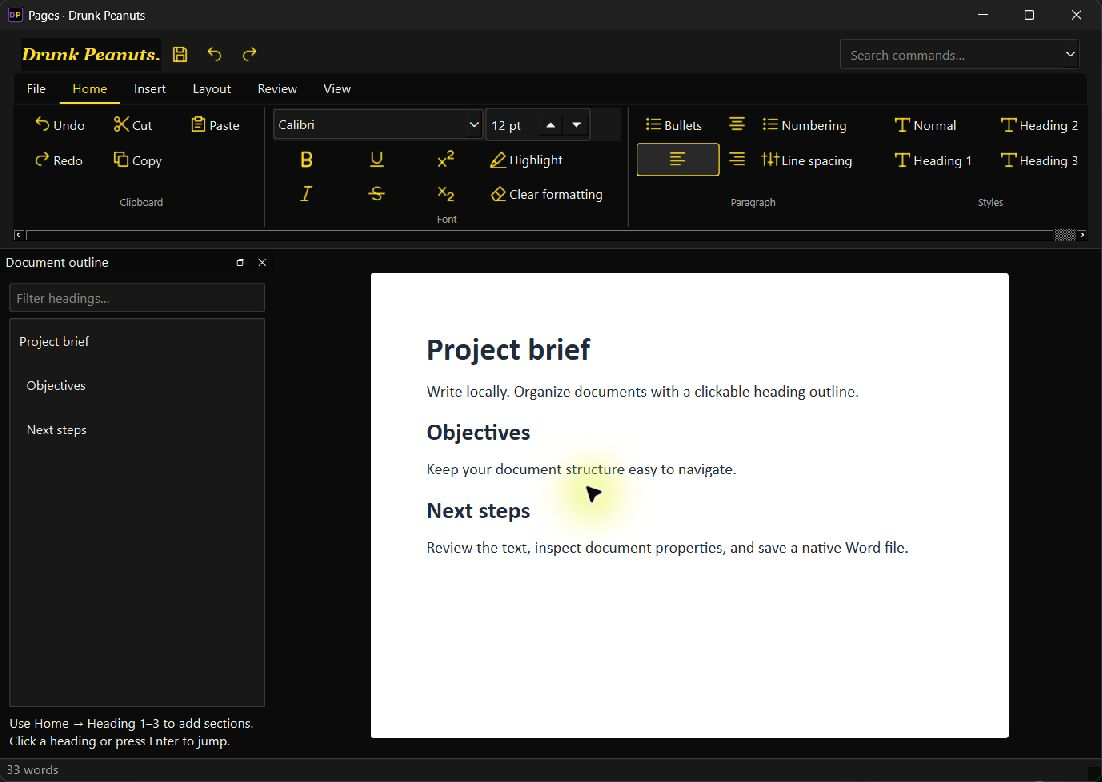
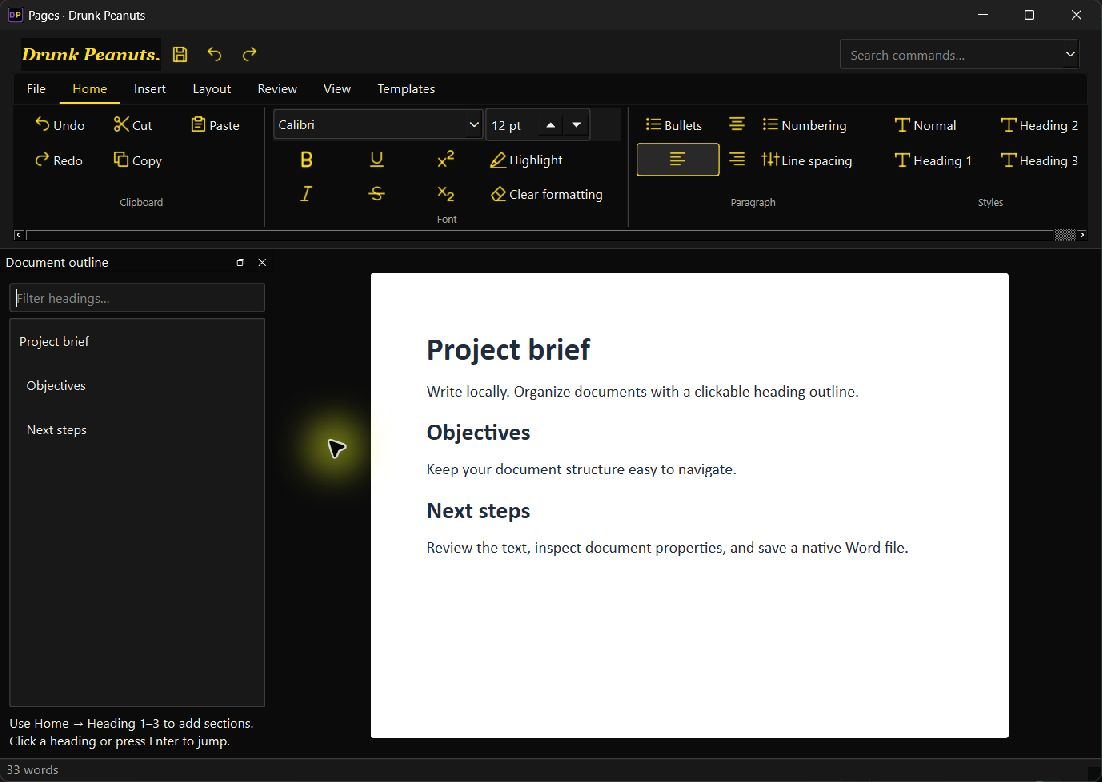
Record verified installed Pages productivity release

Changed region(s): [[0.4936, 0.5831, 0.5862, 0.6752], [0.2468, 0.5217, 0.3394, 0.6138], [0.3394, 0.0921, 0.4011, 0.1228]]

diff --git a/docs/OFFICE_BATCHES.md b/docs/OFFICE_BATCHES.md
@@ -39,7 +39,7 @@ The converter drop area has a separate expanding outline and soft background ani
 
 References: [Microsoft ribbon customization](https://support.microsoft.com/en-us/office/foundations-experiences/customize-the-ribbon-in-office), [Word ribbon shortcuts and tab responsibilities](https://support.microsoft.com/en-us/accessibility/word/keyboard-shortcuts-in-word), [LibreOffice notebook bar](https://help.libreoffice.org/latest/en-US/text/shared/01/notebook_bar.html?DbPAR=SHARED).
 
-## Remaining batches — not implemented by 0.20
+## Remaining feature queue
 
 Full Microsoft 365/LibreOffice feature parity is not complete. Only working commands are shown in this release. This is the implementation queue, not a list of shipped features:
 
@@ -48,6 +48,6 @@ Full Microsoft 365/LibreOffice feature parity is not complete. Only working comm
 | Document layout and references | True paginated editing, sections/columns, footnotes/endnotes, contents and citations, editable vector/text boxes, image positioning/wrapping | Save/reopen in Word and LibreOffice; page/section/reference structure retained; representative native PDF comparison. |
 | Spreadsheet authoring | Multiple-sheet editing, broader formulas, range-aware structural edits/sort, tables, merged cells, validations, conditional formatting, workbook print layout, pivot analysis | Formula/range references update correctly; charts and unknown package parts survive; native Excel/Calc round trips. |
 | Presentation authoring | Multi-object grouping/distribution, richer text layout, master/layout authoring, crops, editable chart styling, additional transitions and animation timelines, second-monitor presenter view | Independent native objects/media, correct timing/playback, undo and native PowerPoint/Impress round trips. |
-| Review and productivity | Comments, tracked changes, proofing dictionaries, navigation, comparison, mail merge, accessibility review and document metadata tools | No silent loss of review data; offline fixtures and recovery checks; clear unsupported-format handling. |
+| Review and productivity | Comments, tracked changes, proofing dictionaries, comparison, mail merge, accessibility review and advanced metadata inspection/cleanup | No silent loss of review data; offline fixtures and recovery checks; clear unsupported-format handling. |
 
 Existing limits from the 0.19 report still apply: unsupported advanced slide objects are preserved rather than fully rendered; Pages charts/shapes are images and Pages/Tables video insertions are local links. Document page splitting/reordering currently targets PDFs. Signed macros, cloud collaboration and account services are separate systems, not implied by an Office-style layout.

diff --git a/docs/PAGES_PRODUCTIVITY_023.md b/docs/PAGES_PRODUCTIVITY_023.md
@@ -12,4 +12,8 @@ Property-only edits preserve the original body XML, including unsupported fields
 
 82 source tests pass. New tests cover property validation, native DOCX reload, preserving original body/fields/unedited properties, original-file protection, pending plain-text export refusal, heading filtering/jumping, non-mutating navigation, heading refresh and text statistics. Installed Word recognized the authored native properties and exported the synthetic document to PDF.
 
+All jobs in [the v0.23.0 build](https://github.com/Thatweirdguy1/Drunk-Peanuts/actions/runs/40303869596) passed on Windows x64, Apple Silicon and Intel macOS, including packaged OCR, Office, conversion and renderer checks. Downloaded Windows installer and portable files matched the checksum manifest and GitHub asset digests. The extracted release passed Office/Play self-checks, native document conversion and actual video-frame decoding. Source-app UI checks confirmed heading navigation and the property dialog's saved values.
+
+The release installer upgraded the Desktop app, and its installed executable matched the release ZIP byte for byte. The Desktop shortcut opened 0.23.0; installed Pages reopened the synthetic DOCX, displayed all three outline headings, and reported 33 words / 225 characters / 193 non-whitespace characters / 6 nonempty paragraphs. The README outline screenshot is from this installed build.
+
 The neutral black/charcoal theme and small purple accents remain. Tracked changes, comments, proofing dictionaries, mail merge, full paginated editing and the other advanced features in the [Office queue](OFFICE_BATCHES.md) remain future batches.
